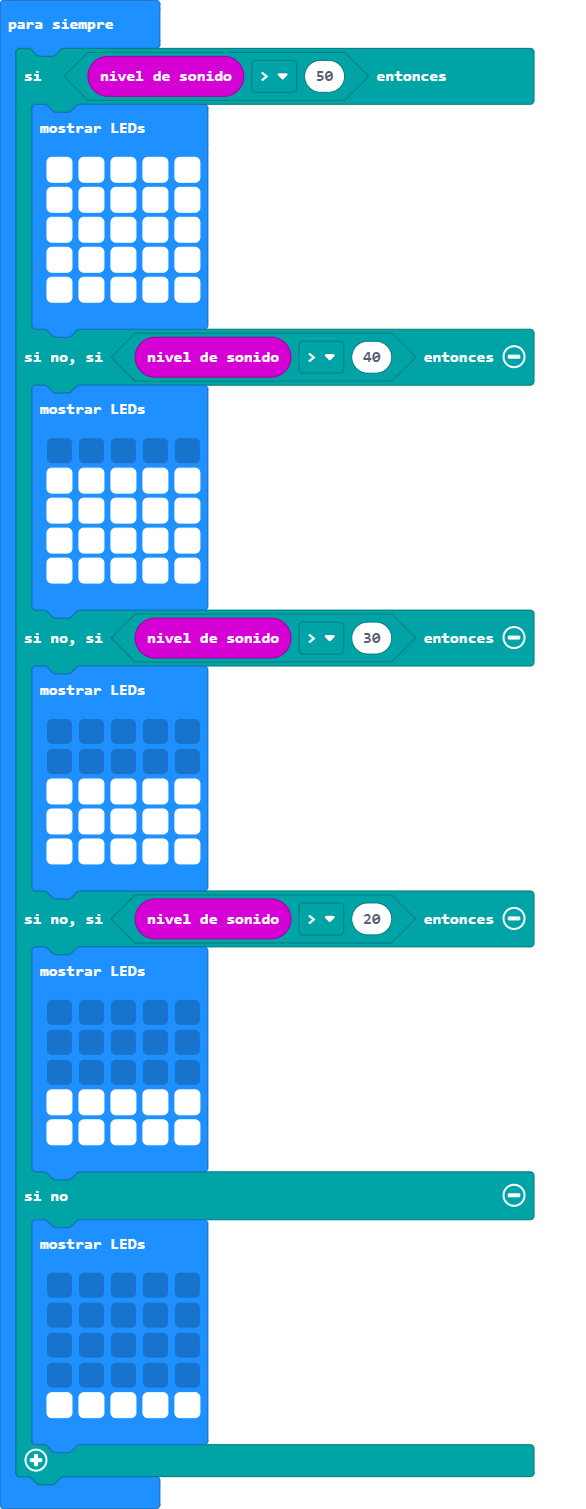
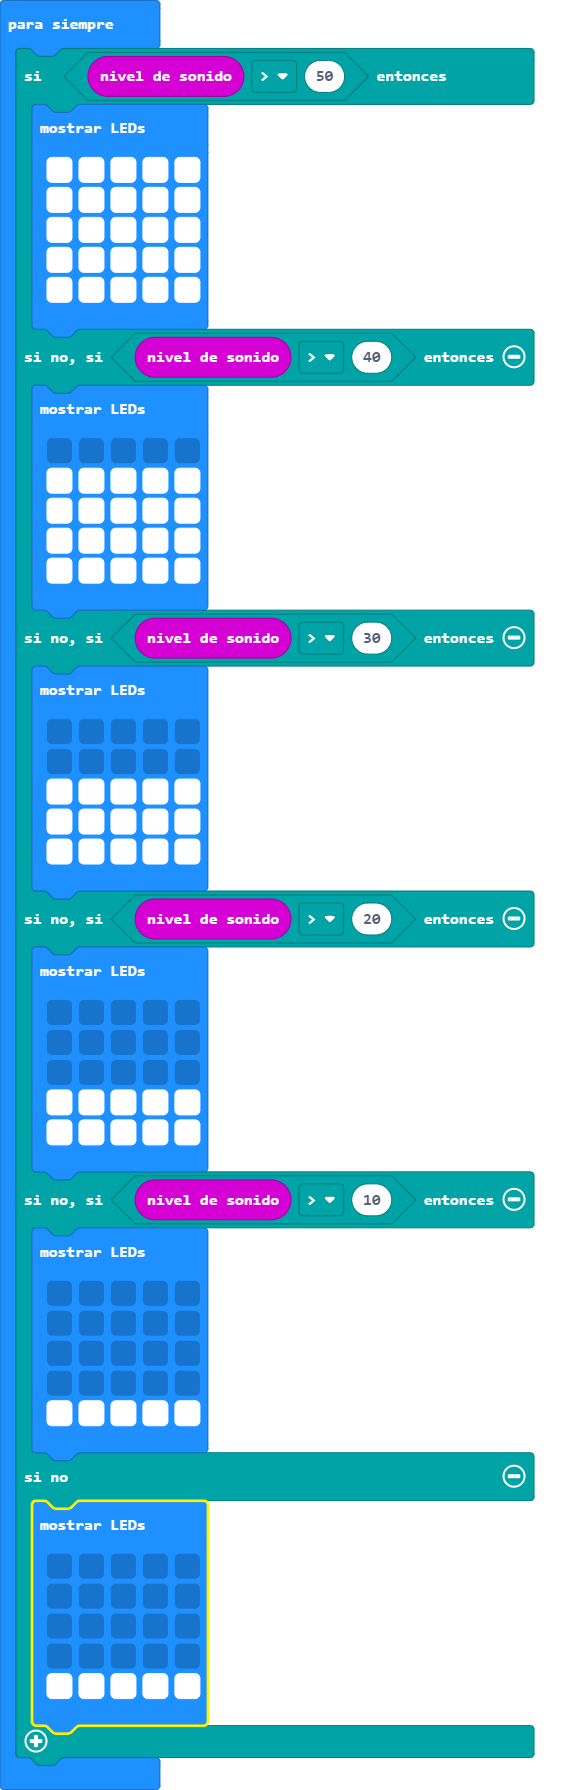
Actualizar main.blocks, main.ts

diff --git a/main.ts b/main.ts
@@ -31,6 +31,14 @@ basic.forever(function () {
             # # # # #
             # # # # #
             `)
+    } else if (input.soundLevel() > 10) {
+        basic.showLeds(`
+            . . . . .
+            . . . . .
+            . . . . .
+            . . . . .
+            # # # # #
+            `)
     } else {
         basic.showLeds(`
             . . . . .
